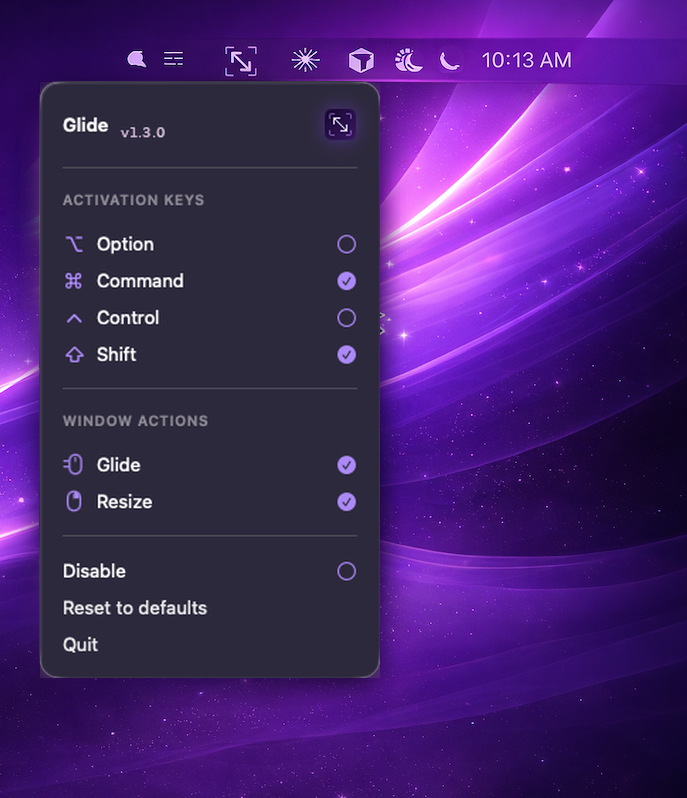
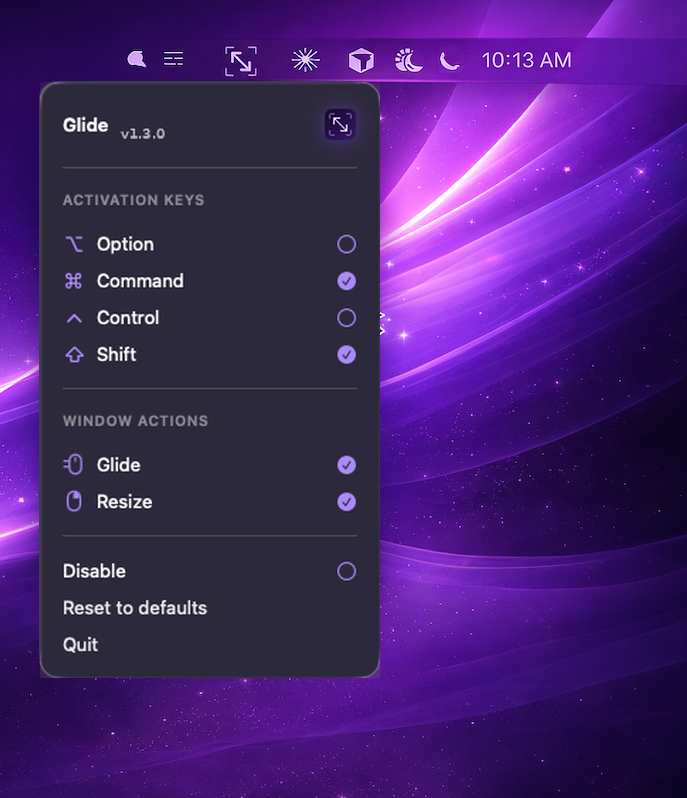
Fix bright menubar corners by compositing onto the clean capture
The wallpaper-fill base produced bright corner fringes: a right-side wallpaper
sample stretched over the card never matched the true wallpaper behind it, so the
rounded-corner notches showed bright pixels (68 vs 45) and the upscaled card edge
overshot to 87 against them.

The menu card is the same rounded rectangle regardless of contents, so the clean
capture already holds pixel-perfect wallpaper, corners, and drop shadow. Composite
now stamps the freshly rendered dropdown over the card region of that capture:
- corners reveal the original wallpaper + contact shadow (notch 45, peak 67 —
  matching the source) with no fringe
- the original drop shadow is reused, so no synthesized shadow is needed
- drop the wallpaper fill/feather and shadow-synthesis code entirely
- menubar-base.png is now the clean capture; drop a new site/menubar-source.png
  and run prepare-menubar-base.py to refresh the desktop background

diff --git a/scripts/prepare-menubar-base.py b/scripts/prepare-menubar-base.py
@@ -1,68 +1,48 @@
 #!/usr/bin/env python3
-"""Create site/menubar-base.png by removing the menu card from a desktop capture."""
+"""Establish site/menubar-base.png — the clean menubar capture used as the
+compositing canvas for site/menubar.png.
+
+The menu card is always the same rounded rectangle, so the screenshot pipeline
+stamps a freshly rendered dropdown over the card region of this base. That means
+the base only needs to be a clean, good-looking menubar screenshot (menu bar +
+wallpaper + a menu card at the configured footprint); its surrounding wallpaper,
+rounded corners, and drop shadow are reused verbatim. To refresh the desktop or
+wallpaper, drop a new capture at site/menubar-source.png and re-run this script.
+"""
 from __future__ import annotations
 
 import json
+import shutil
+import sys
 from pathlib import Path
-
-from PIL import Image, ImageDraw, ImageFilter
 
 ROOT = Path(__file__).resolve().parents[1]
 LAYOUT = ROOT / "scripts" / "screenshot-layout.json"
 DEFAULT_SOURCE = ROOT / "site/menubar-source.png"
 
 
-def prepare_menubar_base(source: Path, output: Path) -> None:
-    layout = json.loads(LAYOUT.read_text(encoding="utf-8"))
-    menubar = layout["menubar"]
-    clear = menubar.get("clear", menubar["card"])
-    x = int(clear["x"])
-    y = int(clear["y"])
-    w = int(clear["width"])
-    h = int(clear["height"])
-
-    feather = int(clear.get("feather", 28))
-
-    image = Image.open(source).convert("RGBA")
-
-    # Sample clean wallpaper from the right side of the capture (no menu card there)
-    # and stretch it over the entire old card + shadow footprint so nothing of the
-    # previous menu (border, body, or drop shadow) survives in the base.
-    sample_left = min(image.width - 1, x + w + 2)
-    wallpaper = image.crop((sample_left, y, image.width, y + h))
-    fill = wallpaper.resize((w, h), Image.Resampling.LANCZOS).filter(ImageFilter.GaussianBlur(radius=0.8))
-
-    # Feather the fill into the surrounding wallpaper. The diagonal gradient means a
-    # right-side sample never matches the left edge exactly, so a hard paste leaves a
-    # visible rectangular seam. A blurred mask blends the edges smoothly; the centre
-    # (which the menu card covers) stays fully opaque.
-    mask = Image.new("L", (w, h), 0)
-    ImageDraw.Draw(mask).rectangle([feather, feather, w - feather, h - feather], fill=255)
-    mask = mask.filter(ImageFilter.GaussianBlur(radius=feather / 2))
-    image.paste(fill, (x, y), mask)
-    output.parent.mkdir(parents=True, exist_ok=True)
-    image.save(output)
-    print(f"Wrote {output} (cleared {w}x{h} at {x},{y}, feather {feather})")
-
-
 def main() -> None:
     layout = json.loads(LAYOUT.read_text(encoding="utf-8"))
-    menubar = layout["menubar"]
-    configured = menubar.get("source")
-    candidates = [
-        ROOT / configured if configured else None,
-        DEFAULT_SOURCE,
-        ROOT / "site/menubar.png",
-    ]
-    source = next((c for c in candidates if c and c.exists()), None)
-    if source is None:
+    base = ROOT / layout["menubar"]["base"]
+
+    if not DEFAULT_SOURCE.exists():
+        if base.exists():
+            print(f"No {DEFAULT_SOURCE.name}; keeping existing {base}")
+            return
         raise SystemExit(
-            "No menubar source image found. Save a clean desktop capture (menu bar + "
-            "wallpaper, with a menu card whose right side is clear wallpaper) as "
-            "site/menubar-source.png before regenerating site/menubar-base.png."
+            f"No menubar capture found. Save a clean desktop capture (menu bar + "
+            f"wallpaper + a menu card at the configured footprint) as "
+            f"{DEFAULT_SOURCE} before regenerating {base}."
         )
-    prepare_menubar_base(source, ROOT / menubar["base"])
+
+    base.parent.mkdir(parents=True, exist_ok=True)
+    shutil.copyfile(DEFAULT_SOURCE, base)
+    print(f"Wrote {base} from {DEFAULT_SOURCE.name}")
 
 
 if __name__ == "__main__":
-    main()
+    try:
+        main()
+    except Exception as exc:  # noqa: BLE001
+        print(f"error: {exc}", file=sys.stderr)
+        raise SystemExit(1) from exc

diff --git a/scripts/patch-screenshot-version.py b/scripts/patch-screenshot-version.py
@@ -6,7 +6,7 @@ import json
 import sys
 from pathlib import Path
 
-from PIL import Image, ImageDraw, ImageFilter, ImageFont
+from PIL import Image, ImageDraw, ImageFont
 
 ROOT = Path(__file__).resolve().parents[1]
 LAYOUT = ROOT / "scripts" / "screenshot-layout.json"
@@ -107,33 +107,19 @@ def composite_menubar(dropdown: Path, output: Path) -> None:
     card_y = int(card["y"])
     card_w = int(card["width"])
     card_h = int(card["height"])
-    radius = int(card.get("radius", 13))
-    shadow = menubar.get("shadow", {})
 
     overlay = Image.open(dropdown).convert("RGBA")
     canvas = Image.open(base).convert("RGBA")
 
-    # Scale the rendered dropdown to exactly fill the card footprint measured from
-    # the real capture, then paste with alpha so rounded corners reveal the clean
-    # wallpaper already painted into the base.
+    # The base is a clean menubar capture whose card silhouette, rounded corners,
+    # drop shadow, and surrounding wallpaper are all pixel-perfect. The menu card
+    # is always the same rounded rectangle regardless of its contents, so we simply
+    # scale the freshly rendered dropdown to that footprint and stamp it over the
+    # old card. The new card fully covers the old body; its anti-aliased corners
+    # reveal the original wallpaper + contact shadow underneath, so corners and
+    # shadow match the source exactly (no synthesized shadow or wallpaper fill,
+    # which is what previously produced bright fringes at the corners).
     scaled = overlay.resize((card_w, card_h), Image.Resampling.LANCZOS)
-
-    # Synthesize a soft drop shadow so the pasted card sits naturally on the desktop.
-    if shadow:
-        dx = int(shadow.get("dx", 0))
-        dy = int(shadow.get("dy", 7))
-        blur = float(shadow.get("blur", 14))
-        opacity = int(shadow.get("opacity", 95))
-        shadow_layer = Image.new("RGBA", canvas.size, (0, 0, 0, 0))
-        sdraw = ImageDraw.Draw(shadow_layer)
-        sdraw.rounded_rectangle(
-            [card_x + dx, card_y + dy, card_x + dx + card_w, card_y + dy + card_h],
-            radius=radius,
-            fill=(0, 0, 0, opacity),
-        )
-        shadow_layer = shadow_layer.filter(ImageFilter.GaussianBlur(radius=blur))
-        canvas = Image.alpha_composite(canvas, shadow_layer)
-
     canvas.paste(scaled, (card_x, card_y), scaled)
     canvas.save(output)
     print(f"Composited {output} (card {card_w}x{card_h} at {card_x},{card_y})")

diff --git a/RELEASE.md b/RELEASE.md
@@ -126,8 +126,10 @@ release **after** the release zip is published — otherwise visitors get a 404.
    `https://github.com/drluckyspin/glide/releases/download/v{version}/Glide-{version}.zip`
 2. **Refresh screenshots** (macOS only): run `make screenshots`. This rebuilds
    `docs/drop-down.png`, `docs/onboarding.png`, the matching `site/` copies, and
-   `site/menubar.png` (dropdown composited onto `site/menubar-base.png` using
-   coordinates in `scripts/screenshot-layout.json`).
+   `site/menubar.png` (the freshly rendered dropdown is scaled to the `card`
+   footprint in `scripts/screenshot-layout.json` and stamped onto the clean
+   menubar capture `site/menubar-base.png`, reusing its wallpaper, rounded
+   corners, and drop shadow).
    `site/glide-hero.png` still needs a manual capture if you want that updated.
 3. **After the GitHub release exists**: open the site locally (`make site`) and confirm the
    Download button resolves to the new `.zip` asset.
@@ -139,11 +141,12 @@ release **after** the release zip is published — otherwise visitors get a 404.
 > the website until `site/index.html` is committed and merged to `main`. Step 2 keeps README
 > and site menu screenshots in sync with the release version.
 
-If the menu dropdown moves or resizes, update the `card` rectangle in
-`scripts/screenshot-layout.json` and replace `site/menubar-base.png` only when the
-desktop/menubar background changes. The dropdown PNG is scaled to the card bounds (see
-`scale` in `scripts/screenshot-layout.json`, currently 1.07) when compositing
-`site/menubar.png`.
+The menu card is always the same rounded rectangle, so compositing just stamps the
+current dropdown over the card region of `site/menubar-base.png`; the corners and
+shadow come from that base. If the dropdown moves or resizes, update the `card`
+rectangle in `scripts/screenshot-layout.json`. To refresh the desktop/menubar
+background, drop a new clean capture at `site/menubar-source.png` and run
+`python3 scripts/prepare-menubar-base.py` to regenerate `site/menubar-base.png`.
 
 ---
 
